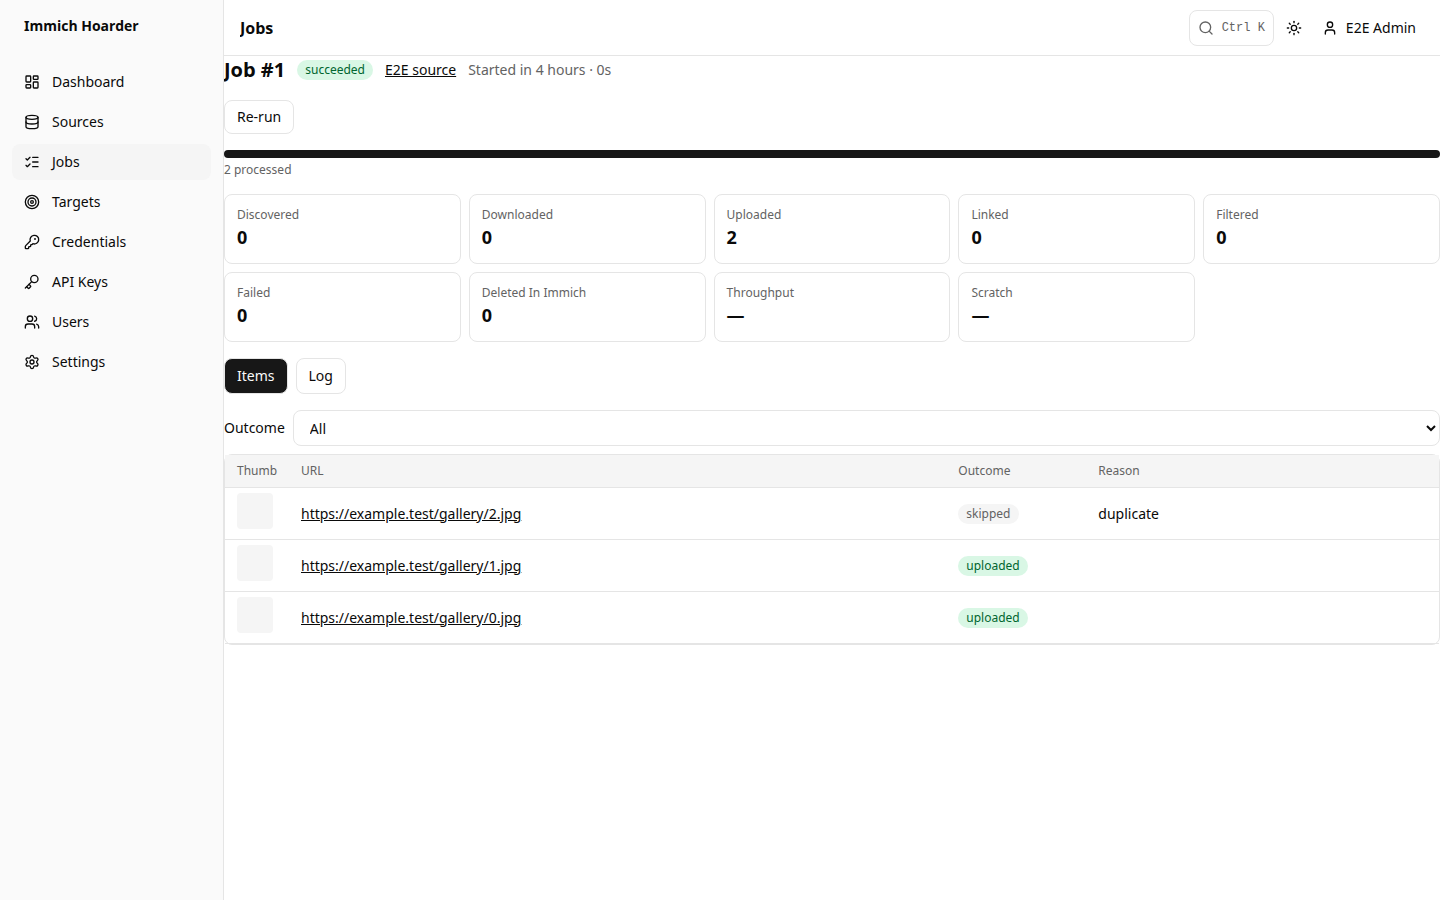
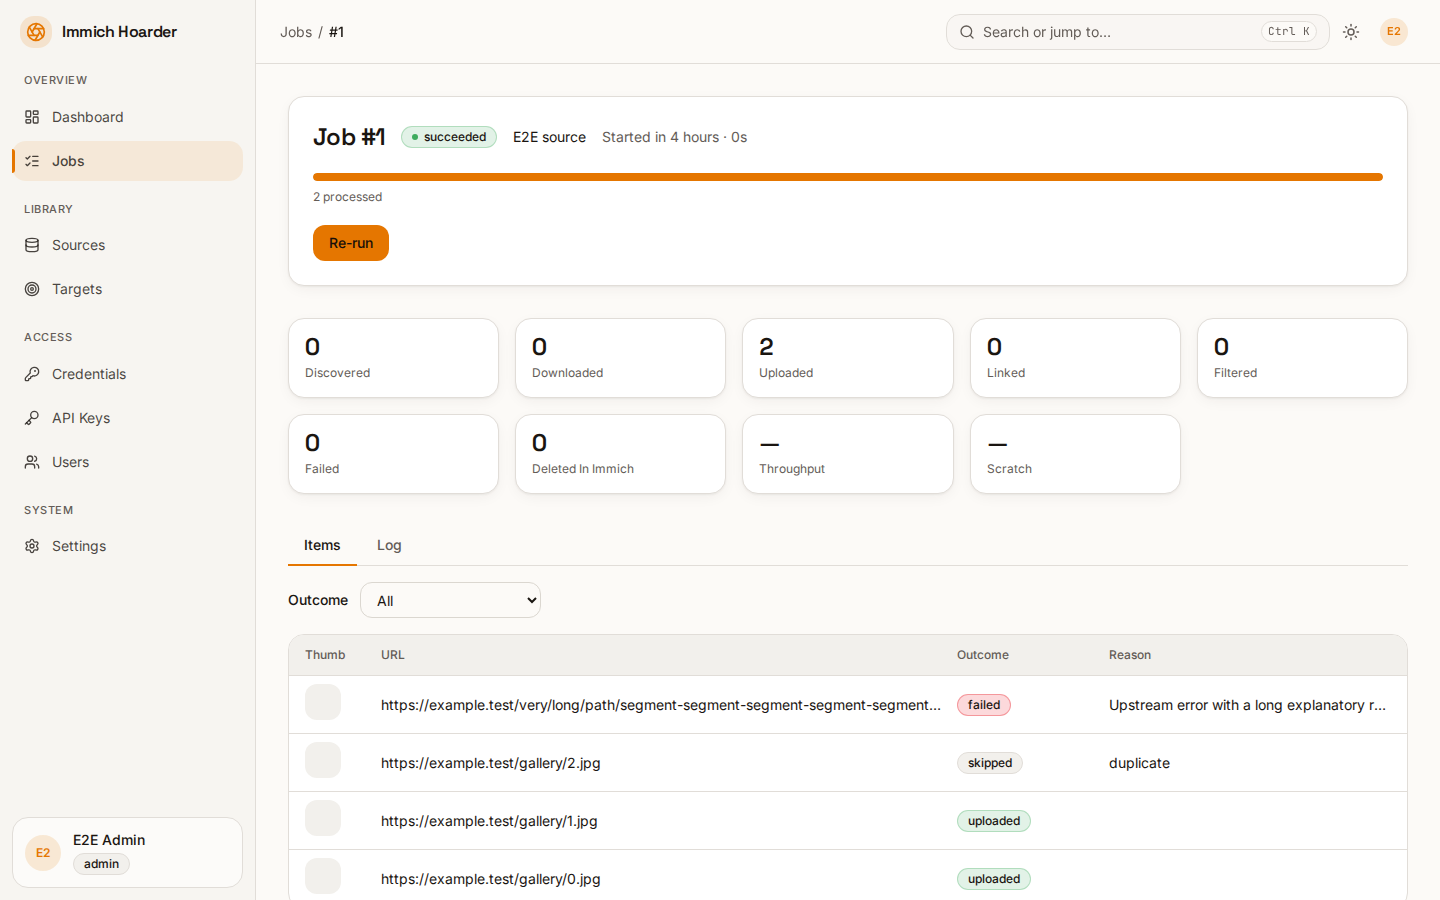
fix(ui): visual polish and refreshed screenshots

diff --git a/frontend/e2e/screenshots.spec.ts b/frontend/e2e/screenshots.spec.ts
@@ -7,6 +7,7 @@ const OUT = path.resolve(process.cwd(), "../docs/assets/screenshots");
 const MAX_BYTES = 400 * 1024;
 const FIRST_ROW = '[role="row"][aria-rowindex="2"]';
 const THEMES = ["light", "dark"] as const;
+const BASE = `http://127.0.0.1:${process.env.E2E_PORT ?? "8090"}`;
 
 // Settled = heading visible and no loading skeletons/spinners left. Not networkidle: the SSE stream never idles.
 async function settle(page: Page, heading: string | RegExp) {
@@ -42,7 +43,8 @@ for (const theme of THEMES) {
       await settle(page, "Sources");
       await expect(page.locator(FIRST_ROW)).toBeVisible();
       await shot(page, `sources-${theme}`);
-      await page.locator(FIRST_ROW).getByRole("button", { name: /^Edit/ }).click();
+      await page.locator(FIRST_ROW).getByRole("button", { name: /^More actions/ }).click();
+      await page.getByRole("menuitem", { name: /^Edit/ }).click();
       const dialog = page.getByRole("dialog");
       await expect(dialog).toBeVisible();
       await expect(dialog.getByText(/^Loading/)).toHaveCount(0);
@@ -67,13 +69,57 @@ for (const theme of THEMES) {
   });
 }
 
-test.describe("mobile", () => {
-  test.use({ viewport: { width: 390, height: 844 } });
-  test("dashboard mobile dark", async ({ page }) => {
-    await page.addInitScript(() => localStorage.setItem("ih-theme", "dark"));
-    await page.goto("/");
-    await settle(page, /Dashboard|Welcome/);
-    await expect(page.getByRole("heading", { name: "Recent uploads" })).toBeVisible();
-    await shot(page, "dashboard-mobile-dark");
+const EXTRA = [
+  { name: "jobs", path: "/jobs", heading: "Jobs" },
+  { name: "targets", path: "/targets", heading: "Targets" },
+  { name: "users", path: "/users", heading: "Users" },
+];
+
+for (const theme of THEMES) {
+  test.describe(`extra ${theme}`, () => {
+    test.use({ viewport: { width: 1440, height: 900 } });
+    test.beforeEach(async ({ page }) => {
+      await page.addInitScript((t) => localStorage.setItem("ih-theme", t), theme);
+    });
+    for (const p of EXTRA) {
+      test(p.name, async ({ page }) => {
+        await page.goto(p.path);
+        await settle(page, p.heading);
+        await shot(page, `${p.name}-${theme}`);
+      });
+    }
+    test("login", async ({ page }) => {
+      await page.context().addCookies([
+        { name: "session", value: "invalid", url: BASE },
+        { name: "ih_csrf", value: "e2e", url: BASE },
+      ]);
+      await page.goto("/login");
+      await expect(page.getByRole("link", { name: /Sign in/ })).toBeVisible();
+      await shot(page, `login-${theme}`);
+    });
+    test("source row menu", async ({ page }) => {
+      await page.goto("/sources");
+      await settle(page, "Sources");
+      await page.locator(FIRST_ROW).getByRole("button", { name: /^More actions/ }).click();
+      await expect(page.getByRole("menuitem").first()).toBeVisible();
+      await page.waitForTimeout(300); // let the open animation finish
+      await shot(page, `sources-menu-${theme}`);
+    });
   });
-});
+}
+
+for (const theme of THEMES) {
+  test.describe(`mobile ${theme}`, () => {
+    test.use({ viewport: { width: 390, height: 844 } });
+    test.beforeEach(async ({ page }) => {
+      await page.addInitScript((t) => localStorage.setItem("ih-theme", t), theme);
+    });
+    for (const p of [{ name: "dashboard", path: "/", heading: /Dashboard|Welcome/ }, { name: "sources", path: "/sources", heading: "Sources" }, ...EXTRA, { name: "settings", path: "/settings", heading: "Settings" }]) {
+      test(p.name, async ({ page }) => {
+        await page.goto(p.path);
+        await settle(page, p.heading);
+        await shot(page, `${p.name}-mobile-${theme}`);
+      });
+    }
+  });
+}

diff --git a/frontend/src/components/shell/Menu.tsx b/frontend/src/components/shell/Menu.tsx
@@ -1,4 +1,5 @@
 import { useEffect, useRef, useState, type ReactNode } from "react";
+import { createPortal } from "react-dom";
 import { Tooltip, TooltipContent, TooltipProvider, TooltipTrigger } from "../ui/tooltip";
 
 /** Minimal dropdown: click-outside and Escape close it. */
@@ -12,16 +13,24 @@ export function Menu({
   children: (close: () => void) => ReactNode;
 }) {
   const [open, setOpen] = useState(false);
+  const [pos, setPos] = useState<{ top: number; right: number } | null>(null);
   const root = useRef<HTMLDivElement>(null);
+  const panel = useRef<HTMLDivElement>(null);
   useEffect(() => {
     if (!open) return;
     const down = (e: MouseEvent) => {
-      if (!root.current?.contains(e.target as Node)) setOpen(false);
+      const t = e.target as Node;
+      if (!root.current?.contains(t) && !panel.current?.contains(t)) setOpen(false);
     };
+    const close = () => setOpen(false);
     const key = (e: KeyboardEvent) => e.key === "Escape" && setOpen(false);
     document.addEventListener("mousedown", down);
     document.addEventListener("keydown", key);
+    window.addEventListener("resize", close);
+    window.addEventListener("scroll", close, true);
     return () => {
+      window.removeEventListener("resize", close);
+      window.removeEventListener("scroll", close, true);
       document.removeEventListener("mousedown", down);
       document.removeEventListener("keydown", key);
     };
@@ -35,7 +44,11 @@ export function Menu({
               type="button"
               aria-haspopup="menu"
               aria-expanded={open}
-              onClick={() => setOpen((o) => !o)}
+              onClick={(e) => {
+                const r = e.currentTarget.getBoundingClientRect();
+                setPos({ top: r.bottom + 8, right: window.innerWidth - r.right });
+                setOpen((o) => !o);
+              }}
               className="inline-flex h-9 items-center gap-2 rounded-lg px-2 text-sm text-muted-foreground transition-colors hover:bg-accent hover:text-accent-foreground focus-visible:outline-2 focus-visible:outline-ring"
             >
               <span className="sr-only">{label}</span>
@@ -45,10 +58,11 @@ export function Menu({
           {!open && <TooltipContent>{label}</TooltipContent>}
         </Tooltip>
       </TooltipProvider>
-      {open && (
-        <div role="menu" aria-label={label} className="absolute right-0 z-40 mt-2 min-w-44 rounded-xl border bg-popover p-1.5 text-popover-foreground shadow-lg motion-safe:animate-in motion-safe:fade-in-0 motion-safe:zoom-in-95 motion-safe:duration-150">
+      {open && pos && createPortal(
+        <div ref={panel} role="menu" aria-label={label} style={{ top: pos.top, right: pos.right }} className="fixed z-50 min-w-44 rounded-xl border bg-popover p-1.5 text-popover-foreground shadow-lg motion-safe:animate-in motion-safe:fade-in-0 motion-safe:zoom-in-95 motion-safe:duration-150">
           {children(() => setOpen(false))}
-        </div>
+        </div>,
+        document.body,
       )}
     </div>
   );

diff --git a/frontend/playwright.config.ts b/frontend/playwright.config.ts
@@ -1,5 +1,7 @@
 import { defineConfig, devices } from "@playwright/test";
 
+const PORT = process.env.E2E_PORT ?? "8090";
+
 export default defineConfig({
   testDir: "e2e",
   testIgnore: process.env.SCREENSHOTS ? [] : ["**/screenshots.spec.ts"],
@@ -8,11 +10,11 @@ export default defineConfig({
   forbidOnly: !!process.env.CI,
   retries: process.env.CI ? 1 : 0,
   reporter: process.env.CI ? [["list"], ["html", { open: "never" }]] : "list",
-  use: { baseURL: "http://127.0.0.1:8090", trace: "retain-on-failure" },
+  use: { baseURL: `http://127.0.0.1:${PORT}`, trace: "retain-on-failure" },
   projects: [{ name: "chromium", use: { ...devices["Desktop Chrome"] } }],
   webServer: {
     command: "cd ../backend && uv run python -m tests.e2e_server",
-    url: "http://127.0.0.1:8090/healthz",
+    url: `http://127.0.0.1:${PORT}/healthz`,
     reuseExistingServer: !process.env.CI,
     timeout: 60_000,
   },

diff --git a/frontend/src/components/common/VirtualTable.tsx b/frontend/src/components/common/VirtualTable.tsx
@@ -75,7 +75,7 @@ export function VirtualTable<T>({
   };
 
   return (
-    <div className="overflow-x-auto rounded-xl border bg-card">
+    <div className={cn("overflow-x-auto", !mobile && "rounded-xl border bg-card")}>
       <div role="table" aria-label={label} aria-rowcount={mobile ? rows.length : rows.length + 1} className={cn("flex min-h-0 flex-col", !mobile && "min-w-[44rem]")}>
         {!mobile && (
           <div role="rowgroup" className="sticky top-0 z-10 border-b bg-muted">

diff --git a/backend/tests/e2e_server.py b/backend/tests/e2e_server.py
@@ -6,6 +6,7 @@ Lives under backend/tests/, which .dockerignore excludes, so the bypass never sh
 import asyncio
 import base64
 import json
+import os
 import tempfile
 from datetime import UTC, datetime
 from pathlib import Path
@@ -32,7 +33,7 @@ from app.db.models import (
 from app.main import create_app
 
 SESSION_SECRET = "e2e-session-secret-0123456789abcdef"
-PORT = 8090
+PORT = int(os.environ.get("E2E_PORT", "8090"))
 CSRF = "e2e"
 
 
@@ -139,6 +140,45 @@ async def _seed(settings: Settings) -> int:
                     data={"type": "log", "msg": f"e2e log line {i}", "logger": "e2e"},
                 )
             )
+        long_name = "Extremely long source name for truncation checks " * 3
+        long_url = "https://example.test/very/long/path/" + "segment-" * 30 + "end.jpg"
+        for i in range(3):
+            s.add(
+                Source(
+                    name=f"{long_name}{i}",
+                    url=long_url,
+                    extractor="gallery-dl",
+                    target_id=target.id,
+                    owner_id=admin.id,
+                    enabled=True,
+                )
+            )
+        s.add(
+            ImmichTarget(
+                name="Target with an exceptionally long display name " * 3,
+                url="http://immich-server-with-a-very-long-hostname." + "sub." * 12 + "invalid",
+                api_key_enc=b"x",
+                owner_id=admin.id,
+            )
+        )
+        for i in range(2):
+            s.add(
+                User(
+                    sub=f"e2e-long-{i}",
+                    email=f"a.very.long.email.address.for.truncation.{i}@subdomain.example-company.test",
+                    name="Maximilian Alexander Bartholomew Montgomery-Featherstonehaugh " * 2,
+                    role=Role.user if i else Role.admin,
+                    groups=["admins"],
+                )
+            )
+        s.add(
+            JobItem(
+                job_id=job.id,
+                url=long_url,
+                outcome="failed",
+                reason="Upstream error " + "with a long explanatory reason " * 6,
+            )
+        )
         admin_id = admin.id
     await engine.dispose()
     return admin_id
